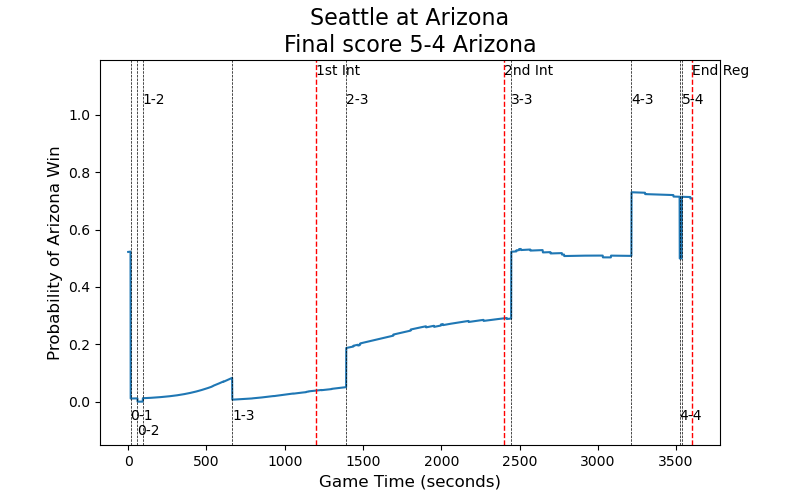
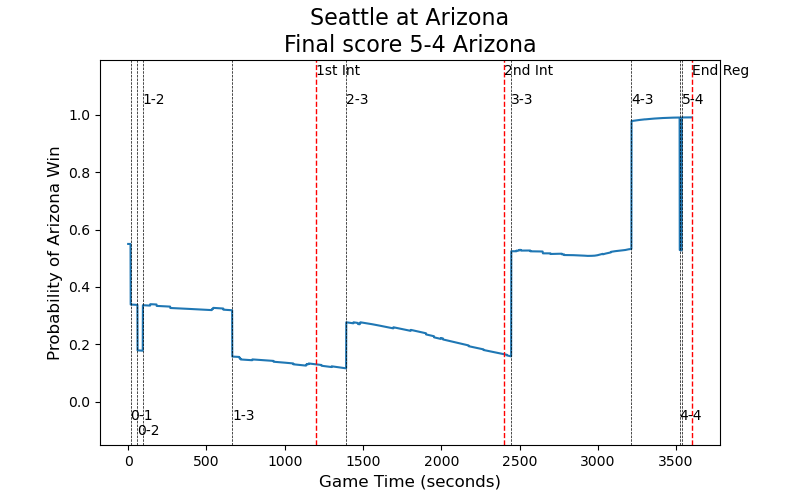
Updated plotting for reversed time

diff --git a/models/common_plot.py b/models/common_plot.py
@@ -53,8 +53,6 @@ def plot_calibration_curves(preds, ys, names=None, figsize=(8, 5),
     bins = np.linspace(0, 1, n_bins + 1)
     for i, (y_pred, y_true) in enumerate(zip(preds, ys)):
         # Calculate the calibration curve data
-        # counts, bins = np.histogram(y_pred, bins=n_bins)
-        # print(bins)
         counts, _ = np.histogram(y_pred, bins=bins)
         mean_pred = np.zeros(bins.size - 1)
         true_frac = np.zeros(bins.size - 1)
@@ -122,7 +120,7 @@ def plot_in_game_probs(shots_df, home_win, team_names, x_scalers, models,
         home_win: bool = indicates whether home team wins
         team_names: list = team names ['home team', 'away team']
         x_scalers: list = scalers fit to the training data
-        models_and_analysis: list = models_and_analysis for which to plot calibration curve
+        models: list = models for which to plot calibration curve
         game_len: int = length of the game (seconds)
         names: list = the model names, for plotting the legend
         avg_prob: bool = indicates whether to average the model predictions
@@ -148,9 +146,9 @@ def plot_in_game_probs(shots_df, home_win, team_names, x_scalers, models,
     goal_list = []
     for sec in range(game_len):
         # Set the game state (model input)
-        input_list = [home_score - away_score, home_shots - away_shots, sec]
-        # input_list = [home_score - away_score, home_shots - away_shots,
-        #               game_len - sec]
+        # input_list = [home_score - away_score, home_shots - away_shots, sec]
+        input_list = [home_score - away_score, home_shots - away_shots,
+                      game_len - sec]
         input_arr[sec, :] = input_list
 
         # If a shot occurred at this time, update the game state
